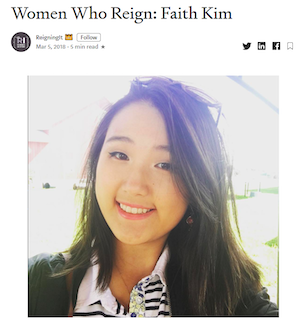
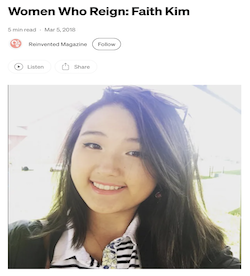
fix layout

diff --git a/about.html b/about.html
@@ -67,8 +67,8 @@
                 <a href="https://www.smith.edu/profile/faith-kim">
                     <div class="article">
                         <picture>
-                            <source media="(max-width: 600px)" srcset="./images/about/smitharticle.webp">
-                            <source media="(min-width: 601px)" srcset="./images/about/smitharticle_result.webp">
+                            <!-- <source media="(max-width: 600px)" srcset="./images/about/smitharticle.webp">
+                            <source media="(min-width: 601px)" srcset="./images/about/smitharticle_result.webp"> -->
                             <img alt="Smith College article on Faith Kim" loading="lazy" decode="async"
                                 src="./images/about/smitharticle.png">
                         </picture>
@@ -78,22 +78,25 @@
                 <a href="https://tinyurl.com/gaminglabatsmith">
                     <div class="article">
                         <picture>
-                            <source media="(max-width: 600px)"
+                            <!-- <source media="(max-width: 600px)"
                                 srcset="./images/about/gaminglabarticle_small_result.webp">
-                            <source media="(min-width: 601px)" srcset="./images/about/gaminglabarticle_result.webp">
+                            <source media="(min-width: 601px)" srcset="./images/about/gaminglabarticle_result.webp"> -->
                             <img alt="Article on Smith College video game lab" loading="lazy" decode="async"
                                 srcset="./images/about/gaminglabarticle.png">
                         </picture>
-                        <p class="description">Learn more about the Gaming Lab at Smith College, where students can play
-                            video games from indie
-                            to AAA games!</p>
+                        <div>
+                            <p class="description">Learn more about the Gaming Lab at Smith College, where students can
+                                play
+                                video games from indie
+                                to AAA games!</p>
+                        </div>
                     </div>
                 </a>
                 <a href="https://reinvented-magazine.medium.com/women-who-reign-faith-kim-1360a26c5c3b">
                     <div class="article">
                         <picture>
-                            <source media="(max-width: 600px)" srcset="./images/about/reigningit_small_result.webp">
-                            <source media="(min-width: 601px)" srcset="./images/about/reigningit_result.webp">
+                            <!-- <source media="(max-width: 600px)" srcset="./images/about/reigningit_small_result.webp">
+                            <source media="(min-width: 601px)" srcset="./images/about/reigningit_result.webp"> -->
                             <img alt="Article on Faith Kim the woman in technology" loading="lazy" decode="async"
                                 src="./images/about/reigningit.png">
                         </picture>

diff --git a/css/styles.css b/css/styles.css
@@ -190,8 +190,8 @@ h1 {
 
     .article {
         max-width: 300px;
-        max-height: 200px;
     }
+
 
     .floatToRight {
         padding-top: 20px;
@@ -232,7 +232,6 @@ h1 {
 
     .article {
         max-width: 500px;
-        max-height: 280px;
     }
 }
 
@@ -362,20 +361,24 @@ h1 {
 }
 
 .articles {
-    display: flex;
-    flex-wrap: wrap;
-    justify-content: space-around;
+    display: grid;
+    grid-template-columns: repeat(auto-fit, minmax(250px, max-content));
+    grid-column-gap: 40px;
+    justify-content: center;
+    max-width: 900px;
 }
 
 
 .article {
+    display: flex;
+    flex-direction: column;
     border-radius: 4px;
     background-color: white;
     padding: 12px;
     text-align: center;
-    width: fit-content;
+    width: 100%;
     margin-top: 28px;
-    overflow: hidden;
+    min-height: 450px;
     border: 2px solid transparent;
 }
 
